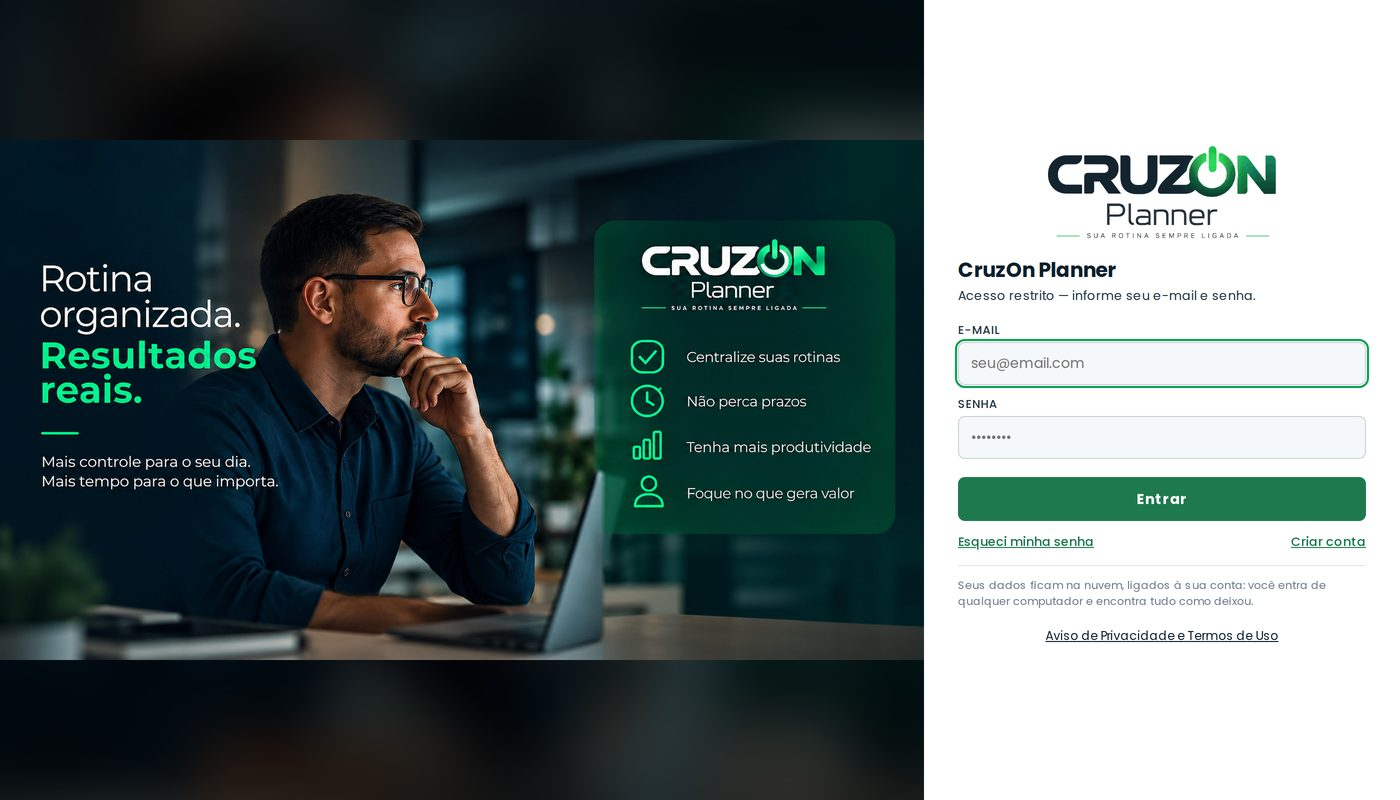
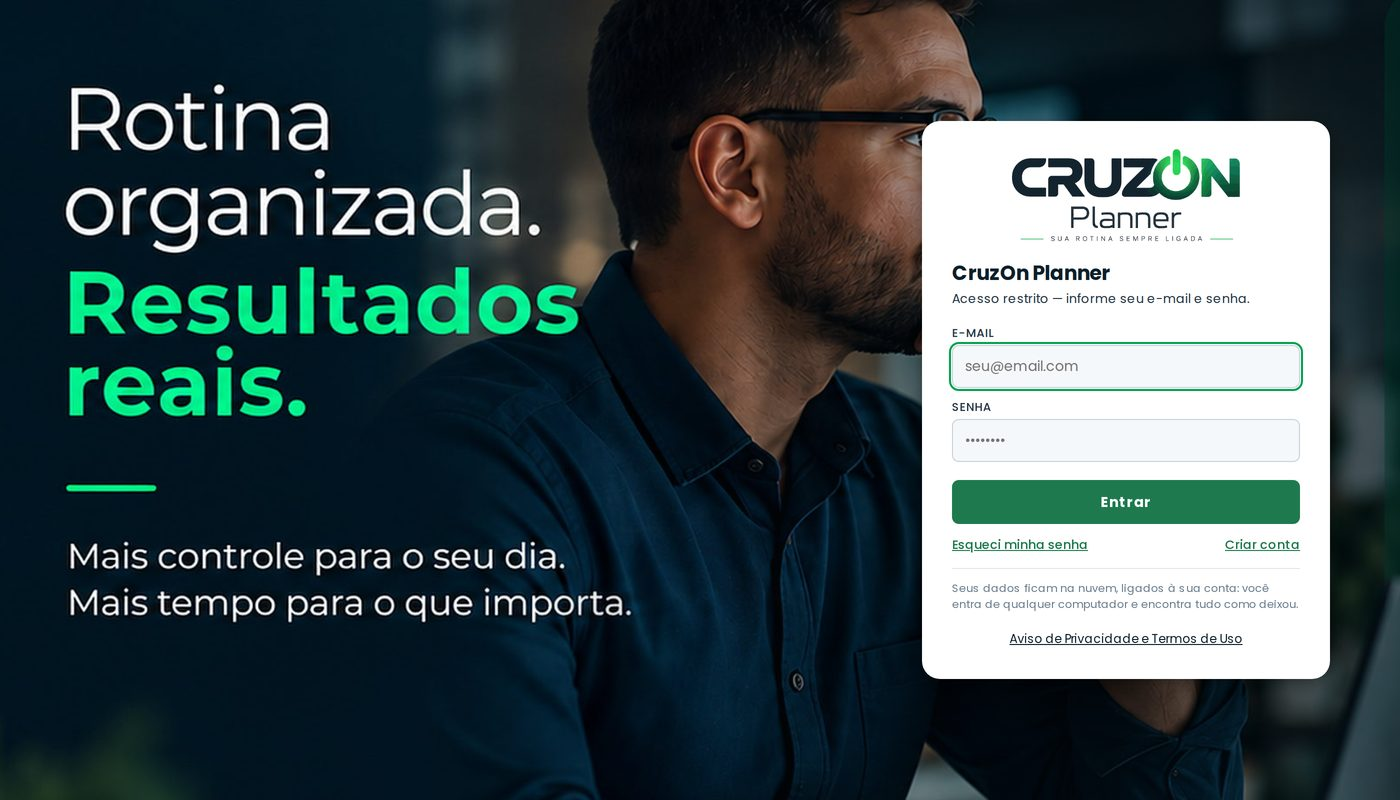
Add files via upload

diff --git a/index.html b/index.html
@@ -86,24 +86,21 @@ button,input,select,textarea{font:inherit;color:inherit} button{cursor:pointer} 
 .hidden{display:none !important}
 
 /* ---------- LOGIN ---------- */
-#login{position:fixed;inset:0;z-index:100;display:flex;align-items:stretch;justify-content:flex-end;padding:0;overflow:hidden;background-color:#0C1F2B}
-.lgart{position:relative;flex:1 1 auto;min-width:0;overflow:hidden;background-color:#07131c}
-.lgart::before{content:"";position:absolute;inset:-7%;background-image:var(--lgbg);background-size:cover;background-position:center;filter:blur(30px) brightness(.5) saturate(.9)}
-.lgart::after{content:"";position:absolute;inset:0;background-image:var(--lgbg);background-size:contain;background-position:center;background-repeat:no-repeat}
-.lgpane{flex:0 0 clamp(380px,34vw,520px);background:var(--surface);display:flex;align-items:center;justify-content:center;padding:26px 34px;overflow:auto;box-shadow:-18px 0 48px -24px rgba(0,0,0,.55)}
-.lgcard{width:min(408px,100%);background:transparent;border-radius:0;padding:0;box-shadow:none}
+#login{position:fixed;inset:0;z-index:100;display:flex;align-items:center;justify-content:flex-end;padding:4vh 5vw;overflow:auto;background-color:#07131c}
+.lgart{position:fixed;inset:0;overflow:hidden;z-index:0;background-color:#07131c}
+.lgart::before{content:"";position:absolute;inset:0;background-image:var(--lgbg);background-size:cover;background-position:center;transform:scale(1.55);transform-origin:2% 48%}
+.lgart::after{content:"";position:absolute;inset:0;background-image:linear-gradient(90deg,rgba(4,16,22,0) 38%,rgba(4,16,22,.30) 64%,rgba(4,16,22,.58) 100%)}
+.lgpane{position:relative;z-index:1;flex:0 0 auto;width:min(408px,100%);background:var(--surface);border-radius:18px;padding:26px 30px 20px;box-shadow:0 34px 80px -18px rgba(0,0,0,.66),0 2px 12px rgba(0,0,0,.28)}
+.lgcard{width:100%;background:transparent;border-radius:0;padding:0;box-shadow:none}
 .lgcard .mark{display:block;width:min(228px,72%);height:auto;margin:2px auto 18px}
 @media(max-width:900px){
-  #login{justify-content:center;align-items:center;padding:18px 16px;overflow:auto;
-    background-image:linear-gradient(180deg,rgba(6,20,28,.45) 0%,rgba(6,20,28,.68) 55%,rgba(6,20,28,.86) 100%),var(--lgbg);
-    background-size:cover,cover;background-position:center,58% 20%;background-repeat:no-repeat}
-  .lgart{display:none}
-  .lgpane{flex:0 0 auto;width:100%;max-width:520px;background:var(--surface);border-radius:16px;padding:22px 20px 20px;
-    box-shadow:0 34px 80px -20px rgba(0,0,0,.62),0 2px 10px rgba(0,0,0,.25)}
-  .lgcard{width:100%}
+  #login{justify-content:center;padding:18px 16px}
+  .lgart::before{transform:none;background-position:30% 26%}
+  .lgart::after{background:linear-gradient(180deg,rgba(6,20,28,.42) 0%,rgba(6,20,28,.66) 55%,rgba(6,20,28,.84) 100%)}
+  .lgpane{width:100%;max-width:520px;border-radius:16px;padding:22px 20px 20px}
   .lgcard .mark{width:min(200px,64%)}
 }
-@media(min-width:901px) and (max-height:760px){.lgpane{align-items:flex-start;padding-top:22px}}
+@media(min-width:901px) and (max-height:720px){#login{align-items:flex-start;padding-top:3vh}}
 #login h1{font-size:20px;margin:0 0 2px;letter-spacing:-.01em}
 #login .sub{color:var(--ink-2);font-size:12.5px;margin:0 0 16px}
 #login label{display:block;font-size:11.5px;font-weight:600;color:var(--ink-2);margin:11px 0 4px;text-transform:uppercase;letter-spacing:.04em}
